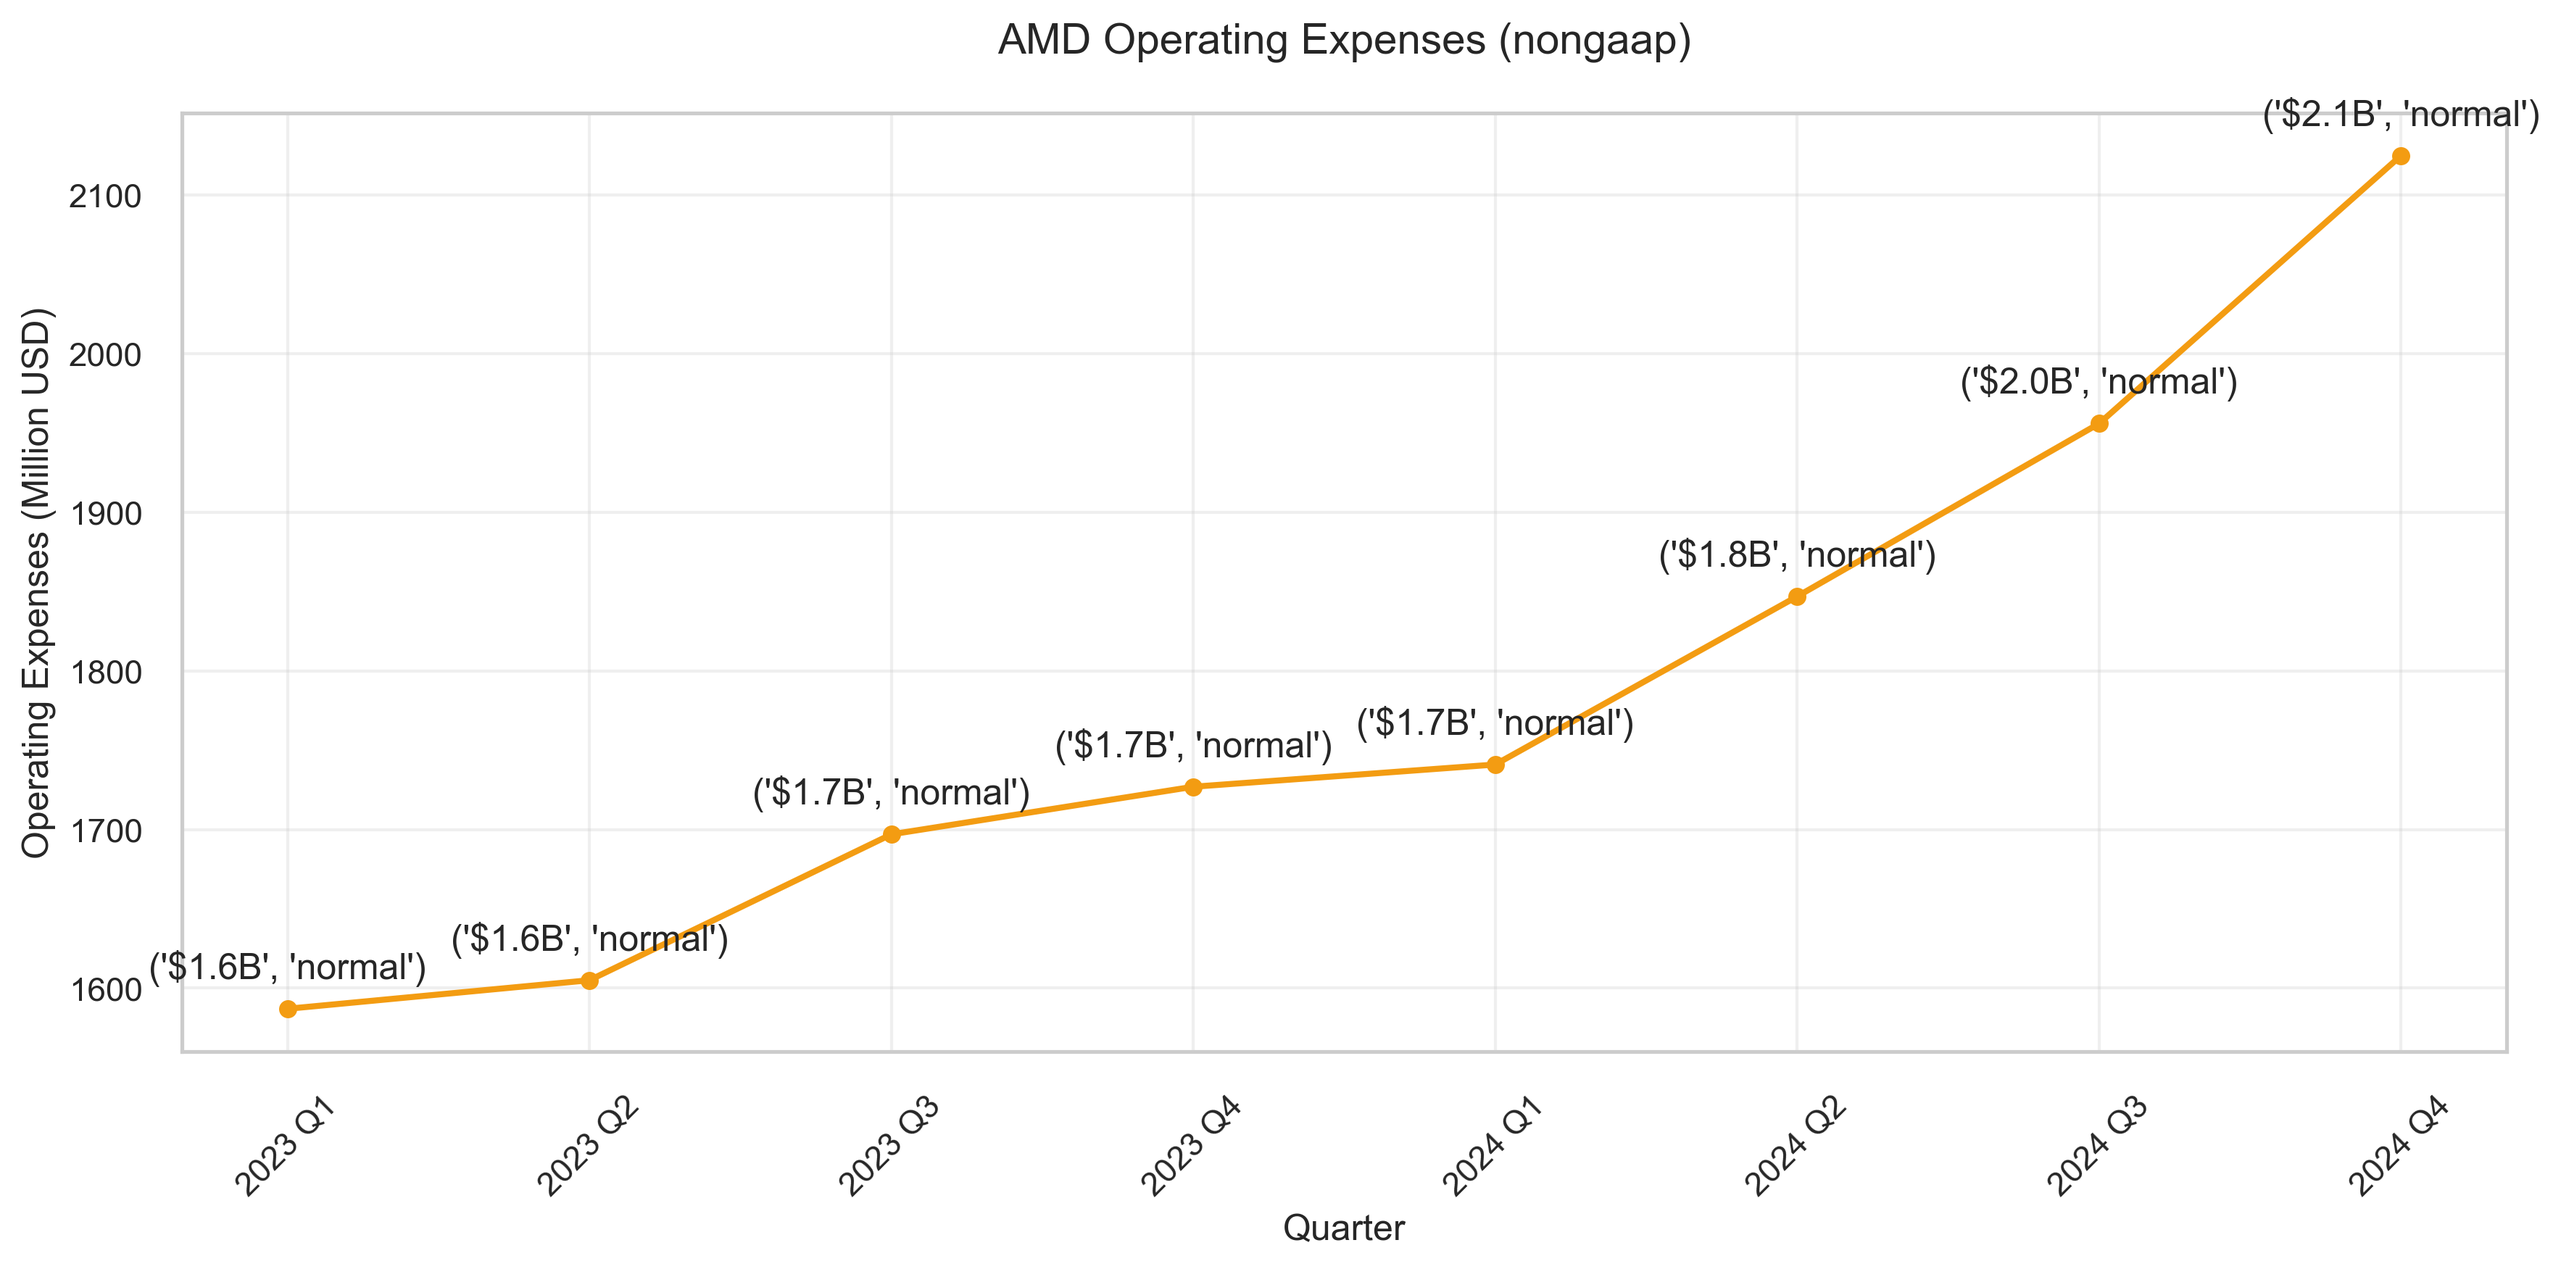
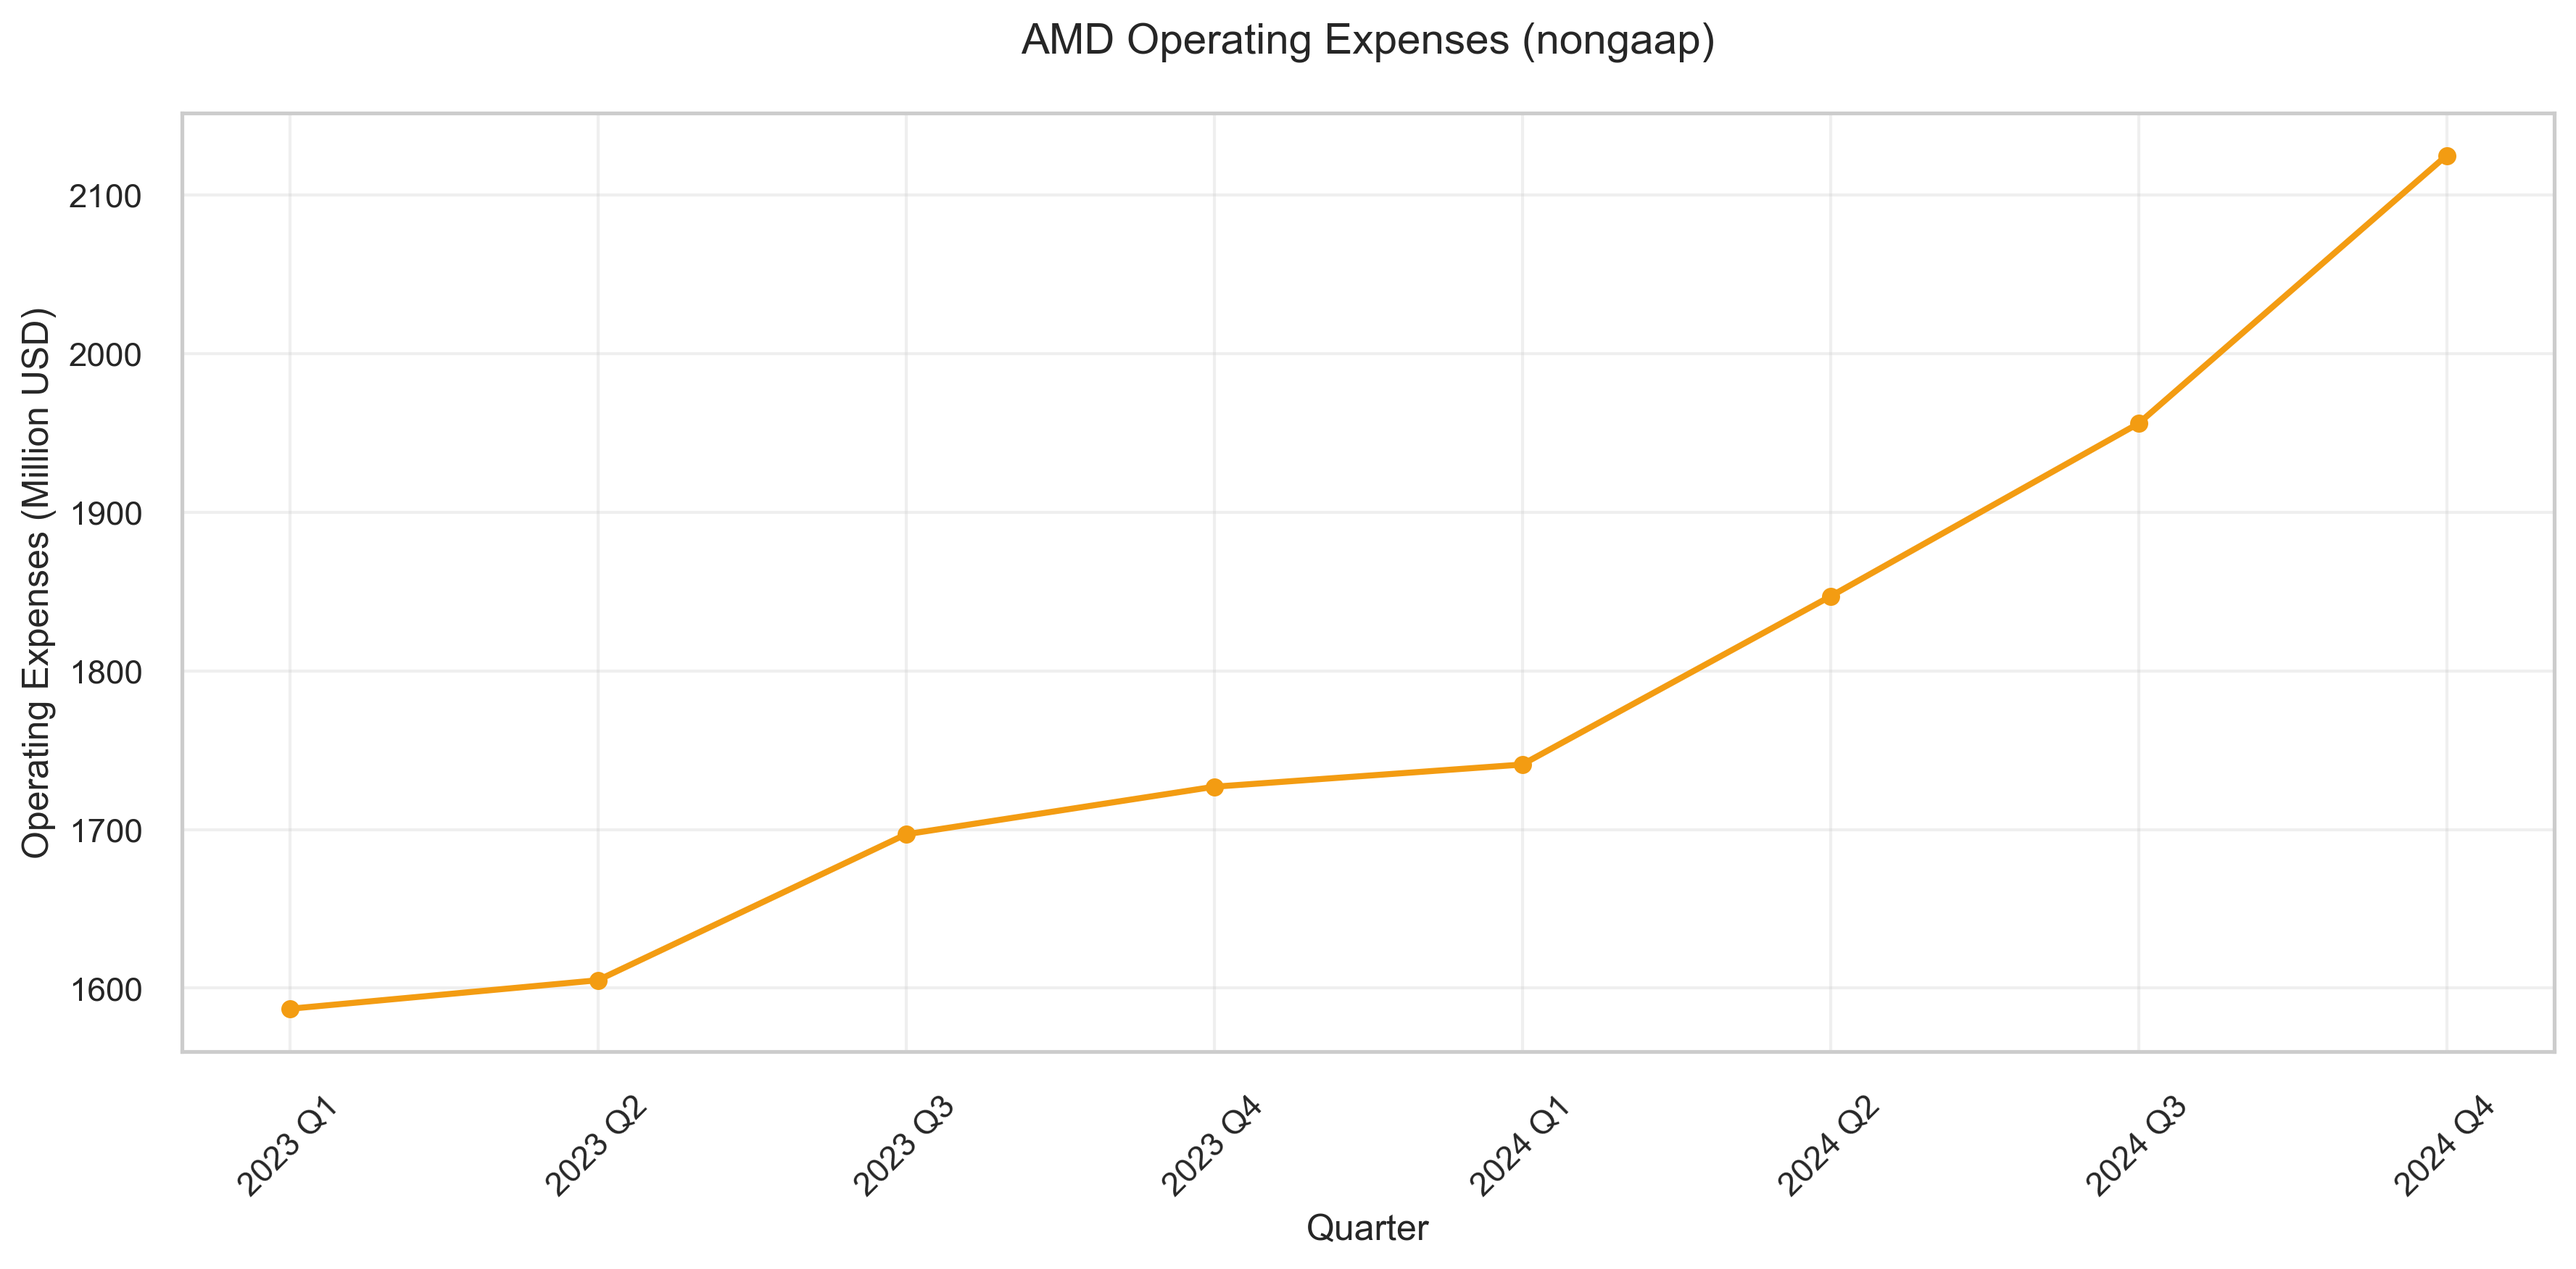
apply margin as lines in bar charts

diff --git a/docs/financial/analyze.py b/docs/financial/analyze.py
@@ -51,112 +51,144 @@ def generate_charts(df, prefix):
         print(f"{quarter} | {rev:.1f} | {gp:.1f} | {cogs:.1f} | {total_height:.1f} (should equal {rev:.1f})")
 
     # 1. Revenue Composition (Stacked Bar)
-    plt.figure(figsize=(12, 6))
+    fig, ax1 = plt.subplots(figsize=(12, 7))  # Increased height
     
     # Set y-axis limits with padding for full revenue height
     y_max = revenue_data.max()
     y_min = 0  # Start from 0 to show full bar height
-    y_padding = y_max * 0.1  # Add 10% padding
-    plt.ylim(y_min, y_max + y_padding)
+    y_padding = y_max * 0.2  # Increase padding to 20% to fit all labels
+    ax1.set_ylim(y_min, y_max + y_padding)
 
     # Create stacked bars
     bar_width = 0.4
-    bottom_bars = plt.bar(x_values, cogs_data, width=bar_width, label='Cost of Goods Sold', color='#a9cce3')  # Light blue
-    top_bars = plt.bar(x_values, gross_profit_data, width=bar_width, bottom=cogs_data, label='Gross Profit', color='#2980b9')  # Saturated blue
+    bottom_bars = ax1.bar(x_values, cogs_data, width=bar_width, label='Cost of Goods Sold', color='#a9cce3')  # Light blue
+    top_bars = ax1.bar(x_values, gross_profit_data, width=bar_width, bottom=cogs_data, label='Gross Profit', color='#2980b9')  # Saturated blue
 
-    plt.title(f'AMD Revenue Composition ({prefix})', fontsize=14, pad=20)
-    plt.xlabel('Quarter', fontsize=12)
-    plt.ylabel('Amount (Million USD)', fontsize=12)
+    ax1.set_title(f'AMD Revenue Composition ({prefix})', fontsize=14, pad=20)
+    ax1.set_xlabel('Quarter', fontsize=12)
+    ax1.set_ylabel('Amount (Million USD)', fontsize=12)
 
     # Format x-axis
-    plt.xticks(x_values, quarters, rotation=45)
+    ax1.set_xticks(x_values)
+    ax1.set_xticklabels(quarters, rotation=45)
 
     # Add value labels
     for i in x_values:
         # Total revenue label at top
         total = revenue_data[i]
         value_str, size = format_value(total)
-        plt.text(i, total, value_str, 
+        ax1.text(i, total, value_str, 
                  ha='center', va='bottom', 
                  fontsize=12 if size == 'normal' else 9)
         
         # COGS label in middle of bottom section
         cogs = cogs_data[i]
         value_str, size = format_value(cogs)
-        plt.text(i, cogs/2, value_str, 
+        ax1.text(i, cogs/2, value_str, 
                  ha='center', va='center', color='white',
                  fontsize=12 if size == 'normal' else 9)
         
         # Gross profit label in middle of top section
         gp = gross_profit_data[i]
         value_str, size = format_value(gp)
-        plt.text(i, cogs + gp/2, value_str, 
+        ax1.text(i, cogs + gp/2, value_str, 
                  ha='center', va='center', color='white',
                  fontsize=12 if size == 'normal' else 9)
 
-    plt.legend(fontsize=10, loc='upper left')
-    plt.grid(True, alpha=0.3)
-    plt.tight_layout()
+    # Add secondary y-axis for margin
+    ax2 = ax1.twinx()
+    margin_data = df[df['metric'] == 'gross_margin'].sort_values('quarter')['value'].values * 100
+    ax2.plot(x_values, margin_data, color='#1a5f96', linestyle='--', marker='o', label='Gross Margin')  # Darkest blue
+    ax2.set_ylabel('Margin (%)', fontsize=12)
+    
+    # Set fixed y-axis range for margin (0-100%)
+    ax2.set_ylim(0, 100)
+
+    # Combine legends
+    lines1, labels1 = ax1.get_legend_handles_labels()
+    lines2, labels2 = ax2.get_legend_handles_labels()
+    ax1.legend(lines1 + lines2, labels1 + labels2, fontsize=10, loc='upper left')
+
+    ax1.grid(True, alpha=0.3)
+    plt.subplots_adjust(bottom=0.15)  # Adjust bottom margin
     plt.savefig(os.path.join(figures_dir, f'{prefix}_revenue_composition.png'), dpi=300, bbox_inches='tight')
     plt.close()
 
     # 2. Operating Income vs Expenses (Stacked Bar)
-    plt.figure(figsize=(12, 6))
+    fig, ax1 = plt.subplots(figsize=(12, 7))
 
     # Get data
     operating_expenses = df[df['metric'] == 'operating_expenses'].sort_values('quarter')['value'].values
     operating_income = df[df['metric'] == 'operating_income'].sort_values('quarter')['value'].values
 
-    # Calculate the height threshold for text placement (e.g., 200M)
-    height_threshold = 200
-
     # Create stacked bars
-    plt.bar(x_values, operating_expenses, width=bar_width, label='Operating Expenses', color='#d2b4de')  # Light purple
-    plt.bar(x_values, operating_income, width=bar_width, bottom=operating_expenses, label='Operating Income', color='#8e44ad')  # Saturated purple
+    ax1.bar(x_values, operating_expenses, width=bar_width, label='Operating Expenses', color='#d2b4de')  # Light purple
+    ax1.bar(x_values, operating_income, width=bar_width, bottom=operating_expenses, label='Operating Income', color='#8e44ad')  # Saturated purple
 
-    plt.title(f'AMD Operating Performance ({prefix})', fontsize=14, pad=20)
-    plt.xlabel('Quarter', fontsize=12)
-    plt.ylabel('Amount (Million USD)', fontsize=12)
+    # Set y-axis limits with padding
+    y_max = (operating_expenses + operating_income).max()
+    y_padding = y_max * 0.15
+    ax1.set_ylim(0, y_max + y_padding)
+
+    ax1.set_title(f'AMD Operating Performance ({prefix})', fontsize=14, pad=20)
+    ax1.set_xlabel('Quarter', fontsize=12)
+    ax1.set_ylabel('Amount (Million USD)', fontsize=12)
 
     # Format x-axis
-    plt.xticks(x_values, quarters, rotation=45)
+    ax1.set_xticks(x_values)
+    ax1.set_xticklabels(quarters, rotation=45)
 
     # Add value labels
     for i in x_values:
         # Total label at top
         total = operating_expenses[i] + operating_income[i]
         value_str, size = format_value(total)
-        plt.text(i, total, value_str, 
+        ax1.text(i, total, value_str, 
                  ha='center', va='bottom', 
                  fontsize=12 if size == 'normal' else 9)
         
         # Operating expenses label
         oe = operating_expenses[i]
         value_str, size = format_value(oe)
-        if oe < height_threshold:  # If bar is too small, place text to the right
-            plt.text(i + bar_width/2 + 0.1, oe/2, value_str, 
-                    ha='left', va='center', color='black',
-                    fontsize=12 if size == 'normal' else 9)
-        else:  # Otherwise, place text inside bar
-            plt.text(i, oe/2, value_str, 
-                    ha='center', va='center', color='white',
-                    fontsize=12 if size == 'normal' else 9)
+        ax1.text(i, oe/2, value_str, 
+                ha='center', va='center', color='white',
+                fontsize=12 if size == 'normal' else 9)
         
         # Operating income label
         oi = operating_income[i]
         value_str, size = format_value(oi)
-        if oi < height_threshold:  # If bar is too small, place text to the right
-            plt.text(i + bar_width/2 + 0.1, oe + oi/2, value_str, 
+        if oi < 1000:  # If less than 1B, place text to the right
+            ax1.text(i + bar_width/2 + 0.05, oe + oi/2, value_str, 
                     ha='left', va='center', color='black',
                     fontsize=12 if size == 'normal' else 9)
         else:  # Otherwise, place text inside bar
-            plt.text(i, oe + oi/2, value_str, 
+            ax1.text(i, oe + oi/2, value_str, 
                     ha='center', va='center', color='white',
                     fontsize=12 if size == 'normal' else 9)
 
-    plt.legend(fontsize=10, loc='upper left')
-    plt.grid(True, alpha=0.3)
-    plt.tight_layout()
+    # Add secondary y-axis for margins
+    ax2 = ax1.twinx()
+    
+    # Plot operating margin
+    op_margin_data = df[df['metric'] == 'operating_margin'].sort_values('quarter')['value'].values * 100
+    line1 = ax2.plot(x_values, op_margin_data, color='#6c3483', linestyle='--', marker='o', label='Operating Margin')  # Darkest purple
+    
+    # Plot operating expense ratio
+    expense_ratio_data = df[df['metric'] == 'operating_expense_revenue_ratio'].sort_values('quarter')['value'].values * 100
+    line2 = ax2.plot(x_values, expense_ratio_data, color='#884ea0', linestyle='--', marker='s', label='OpEx/Revenue')  # Dark purple
+    
+    ax2.set_ylabel('Percentage (%)', fontsize=12)
+    
+    # Set fixed y-axis range for percentages (0-100%)
+    ax2.set_ylim(0, 100)
+
+    # Combine legends
+    lines1, labels1 = ax1.get_legend_handles_labels()
+    lines2, labels2 = ax2.get_legend_handles_labels()
+    ax1.legend(lines1 + lines2, labels1 + labels2, fontsize=10, loc='upper left')
+
+    ax1.grid(True, alpha=0.3)
+    plt.subplots_adjust(bottom=0.15)  # Adjust bottom margin
     plt.savefig(os.path.join(figures_dir, f'{prefix}_operating_performance.png'), dpi=300, bbox_inches='tight')
     plt.close()
 
@@ -193,9 +225,7 @@ def generate_charts(df, prefix):
         # Format x-axis
         plt.xticks(metric_data['quarter'], rotation=45)
         
-        # Add value labels
-        for x, y in zip(metric_data['quarter'], y_values):
-            plt.annotate(value_format(y), (x, y), textcoords="offset points", xytext=(0,10), ha='center')
+        # Remove value labels for line charts
             
         plt.grid(True, alpha=0.3)
         plt.tight_layout()
